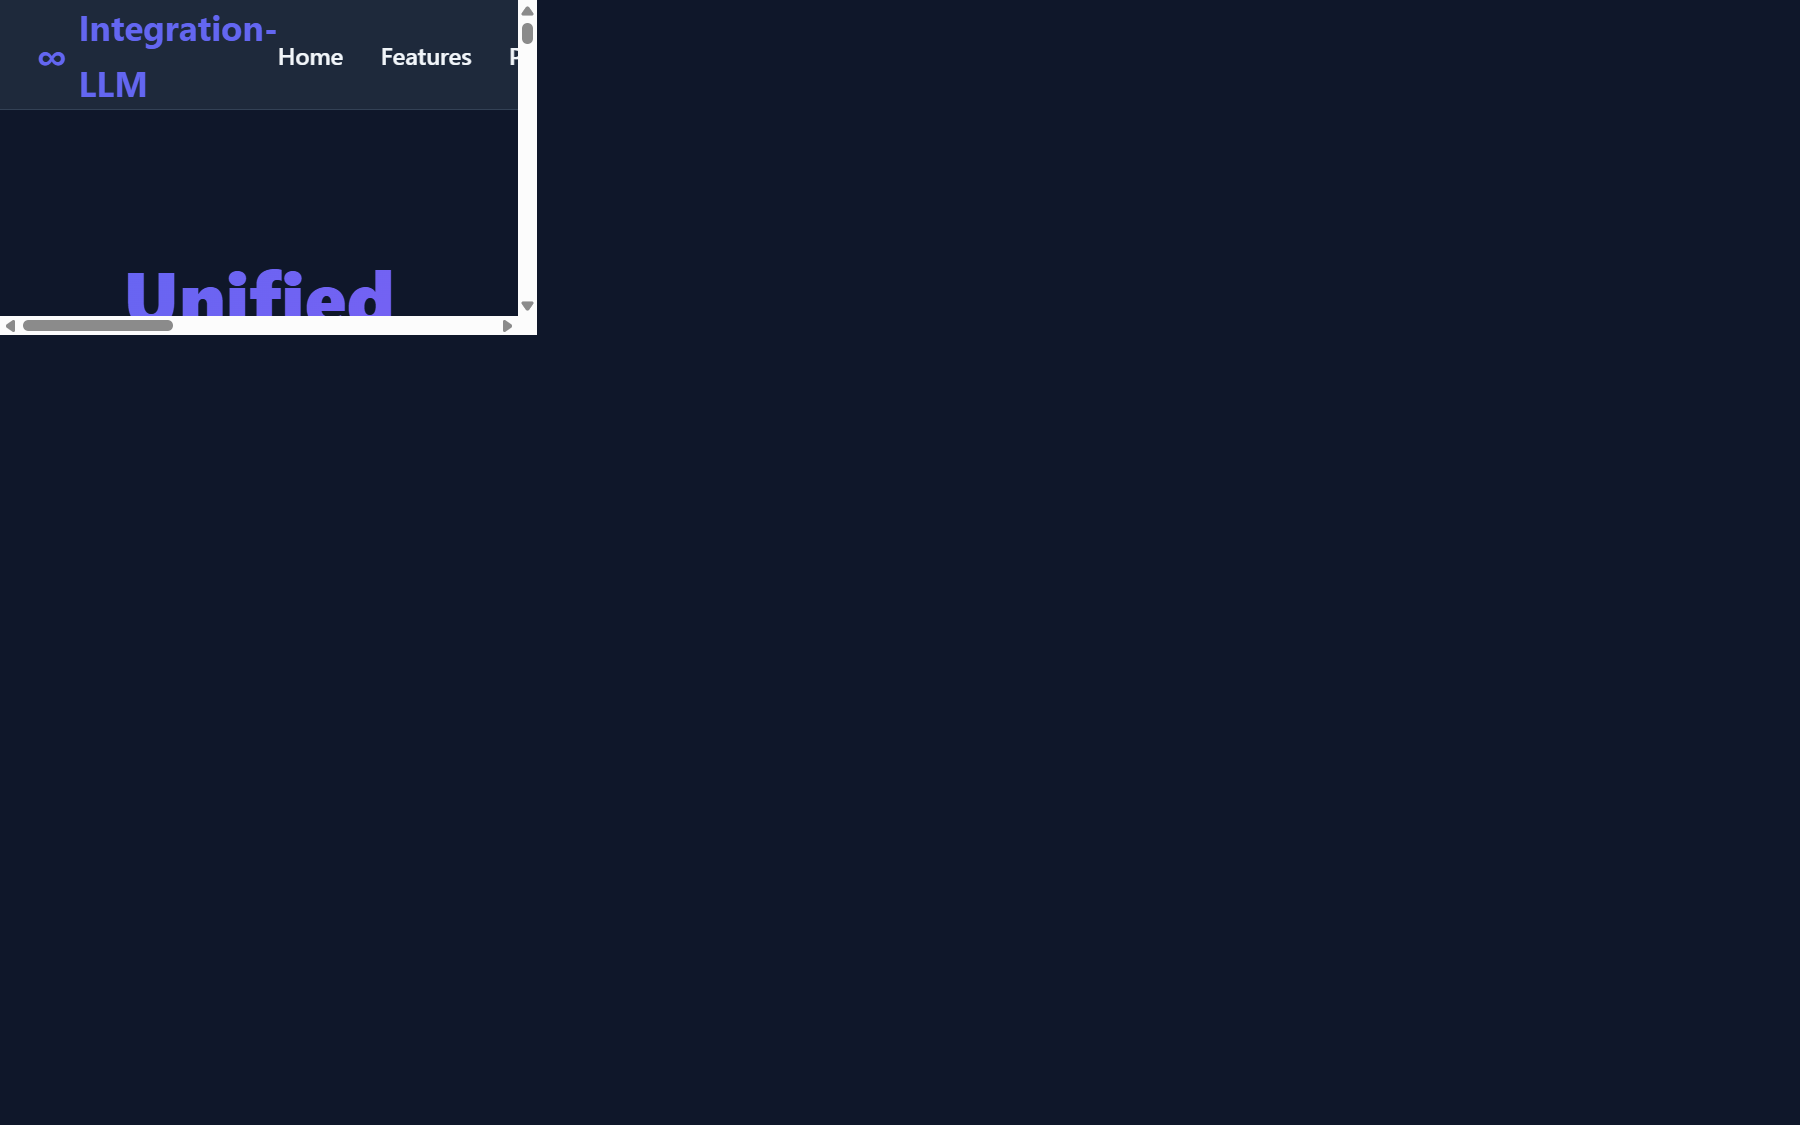
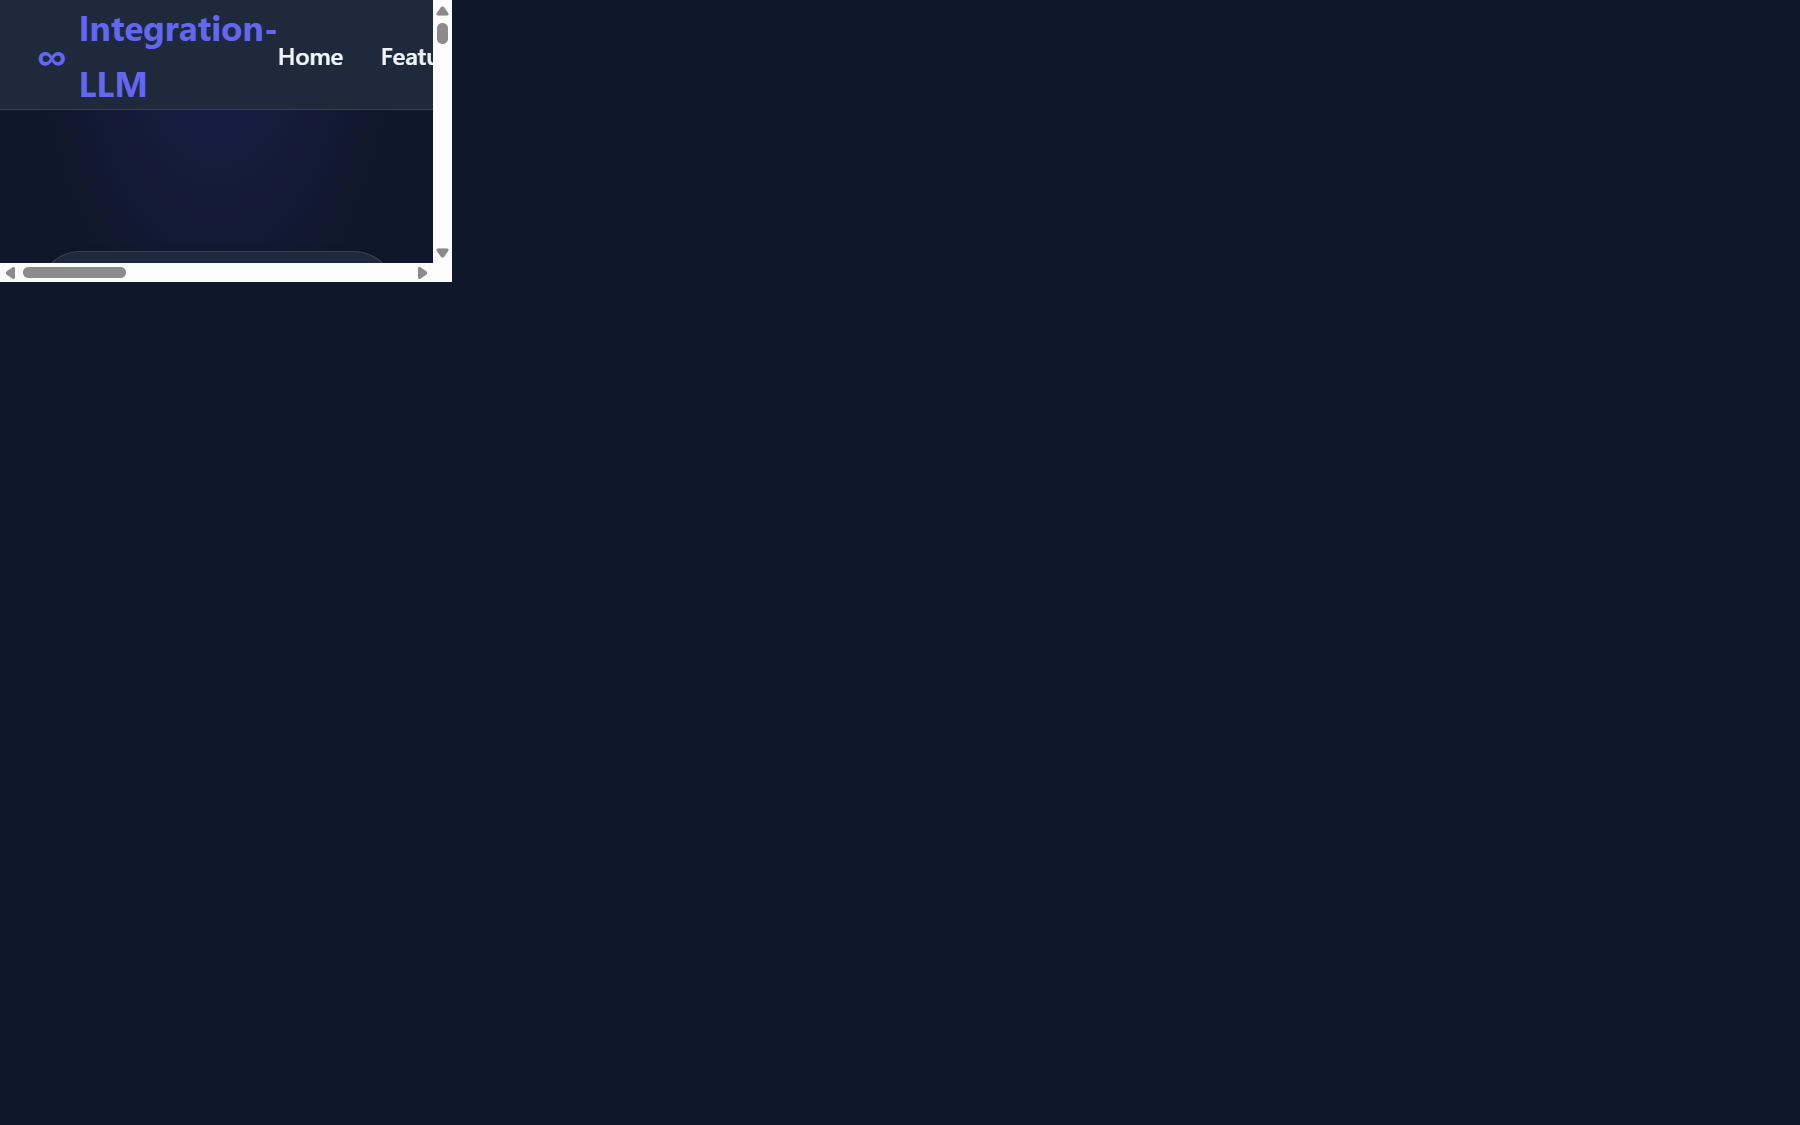
feat: revamp hero with live auto-playing terminal demo, animations, and refreshed screenshots

Changed region(s): [[0.0, 0.0, 0.3111, 0.3111]]

diff --git a/docs/styles.css b/docs/styles.css
@@ -119,6 +119,11 @@ body {
   border: none;
   font-size: 0.95rem;
   gap: 8px;
+  transition: transform 0.2s ease, box-shadow 0.2s ease, background-color 0.2s ease;
+}
+
+.btn:hover {
+  transform: translateY(-2px);
 }
 
 .btn-primary {
@@ -128,6 +133,7 @@ body {
 
 .btn-primary:hover {
   background-color: var(--primary-hover);
+  box-shadow: 0 10px 20px -6px rgba(79, 70, 229, 0.5);
 }
 
 .btn-secondary {
@@ -147,31 +153,175 @@ body {
 
 /* Hero */
 .hero {
-  padding: 80px 0;
-  text-align: center;
+  position: relative;
+  padding: 90px 0 70px;
+  overflow: hidden;
+}
+
+.hero-bg-glow {
+  position: absolute;
+  inset: -20% -10% auto -10%;
+  height: 600px;
+  background: radial-gradient(closest-side, rgba(79, 70, 229, 0.18), transparent 70%),
+              radial-gradient(closest-side at 80% 20%, rgba(124, 58, 237, 0.16), transparent 70%);
+  pointer-events: none;
+  z-index: 0;
+}
+
+.hero-grid {
+  position: relative;
+  z-index: 1;
+  display: grid;
+  grid-template-columns: 1.05fr 0.95fr;
+  gap: 48px;
+  align-items: center;
+}
+
+@media (max-width: 950px) {
+  .hero-grid {
+    grid-template-columns: 1fr;
+  }
+}
+
+.eyebrow {
+  display: inline-block;
+  background: var(--card-bg);
+  border: 1px solid var(--border);
+  color: var(--primary);
+  font-size: 0.8rem;
+  font-weight: 700;
+  padding: 6px 14px;
+  border-radius: 999px;
+  margin-bottom: 20px;
+  box-shadow: var(--shadow);
 }
 
 .hero h1 {
-  font-size: 3rem;
+  font-size: 2.9rem;
   font-weight: 800;
-  margin-bottom: 16px;
+  margin-bottom: 18px;
+  line-height: 1.15;
+}
+
+.text-gradient {
   background: linear-gradient(135deg, var(--primary), var(--secondary));
   -webkit-background-clip: text;
   -webkit-text-fill-color: transparent;
+  background-clip: text;
 }
 
 .hero p {
-  font-size: 1.25rem;
+  font-size: 1.15rem;
   color: var(--text-muted);
-  max-width: 700px;
-  margin: 0 auto 32px auto;
+  max-width: 560px;
+  margin-bottom: 28px;
+}
+
+.hero-stats {
+  display: flex;
+  gap: 32px;
+  margin-bottom: 32px;
+  flex-wrap: wrap;
+}
+
+.hero-stat {
+  display: flex;
+  flex-direction: column;
+}
+
+.hero-stat strong {
+  font-size: 1.6rem;
+  font-weight: 800;
+  color: var(--primary);
+}
+
+.hero-stat span {
+  font-size: 0.82rem;
+  color: var(--text-muted);
+  font-weight: 600;
+  text-transform: uppercase;
+  letter-spacing: 0.03em;
 }
 
 .hero-buttons {
   display: flex;
-  justify-content: center;
+  justify-content: flex-start;
   gap: 16px;
   flex-wrap: wrap;
+}
+
+@media (max-width: 950px) {
+  .hero p { max-width: 100%; }
+  .hero-stats, .hero-buttons { justify-content: center; }
+  .hero-copy { text-align: center; }
+}
+
+/* Hero live terminal */
+.terminal-window {
+  background: var(--code-bg);
+  border-radius: var(--radius);
+  box-shadow: 0 20px 40px -12px rgba(15, 23, 42, 0.35);
+  overflow: hidden;
+  border: 1px solid rgba(255,255,255,0.06);
+}
+
+.terminal-header {
+  display: flex;
+  align-items: center;
+  gap: 8px;
+  padding: 12px 16px;
+  background: rgba(255,255,255,0.04);
+  border-bottom: 1px solid rgba(255,255,255,0.06);
+}
+
+.dot {
+  width: 11px;
+  height: 11px;
+  border-radius: 50%;
+  display: inline-block;
+}
+
+.dot-red { background: #FF5F56; }
+.dot-yellow { background: #FFBD2E; }
+.dot-green { background: #27C93F; }
+
+.terminal-title {
+  margin-left: 8px;
+  font-size: 0.78rem;
+  color: var(--code-text);
+  opacity: 0.7;
+  font-family: monospace;
+}
+
+.terminal-body {
+  padding: 20px;
+  min-height: 320px;
+  color: var(--code-text);
+  font-family: 'Fira Code', 'Courier New', monospace;
+  font-size: 0.85rem;
+  line-height: 1.7;
+  white-space: pre-wrap;
+  word-break: break-word;
+}
+
+.terminal-body .line-comment { color: #6B7280; }
+.terminal-body .line-keyword { color: #C792EA; }
+.terminal-body .line-string { color: #C3E88D; }
+.terminal-body .line-success { color: #27C93F; font-weight: 600; }
+.terminal-body .line-label { color: #82AAFF; }
+
+.blinking-cursor {
+  display: inline-block;
+  width: 8px;
+  height: 1em;
+  background: var(--primary);
+  vertical-align: text-bottom;
+  animation: blink 1s step-start infinite;
+  margin-left: 2px;
+}
+
+@keyframes blink {
+  50% { opacity: 0; }
 }
 
 /* Features */
@@ -198,6 +348,13 @@ body {
   border-radius: var(--radius);
   border: 1px solid var(--border);
   box-shadow: var(--shadow);
+  transition: transform 0.25s ease, box-shadow 0.25s ease, border-color 0.25s ease;
+}
+
+.feature-card:hover {
+  transform: translateY(-4px);
+  border-color: var(--primary);
+  box-shadow: 0 12px 24px -8px rgba(79, 70, 229, 0.25);
 }
 
 .feature-icon {

diff --git a/docs/script.js b/docs/script.js
@@ -246,4 +246,70 @@ console.log('Resilient Response:', response.content);`;
 
   // Initial call
   populateModels();
+
+  // --- Hero Live Terminal Animation (auto-plays, cycles providers) ---
+  const heroTerminal = document.getElementById('heroTerminal');
+  if (heroTerminal) {
+    const demoSequence = [
+      { platform: 'ollama', model: 'llama3.2' },
+      { platform: 'azure', model: 'gpt-4o' },
+      { platform: 'openai', model: 'gpt-4o-mini' },
+      { platform: 'anthropic', model: 'claude-3-5-sonnet' },
+      { platform: 'bedrock', model: 'llama3.2' },
+      { platform: 'google', model: 'gemini-pro' }
+    ];
+
+    let seqIndex = 0;
+
+    function escapeHtml(str) {
+      return str.replace(/&/g, '&amp;').replace(/</g, '&lt;').replace(/>/g, '&gt;');
+    }
+
+    function buildScript(platform, model) {
+      const responseText = (mockResponses[platform] && mockResponses[platform][model])
+        || `Standard completion response for ${platform} (${model}).`;
+
+      return [
+        { text: `import { ChatService, registerDefaultFactories } from 'integration-llm';\n\n`, cls: '' },
+        { text: `registerDefaultFactories();\n`, cls: 'line-keyword' },
+        { text: `const chatService = new ChatService();\n\n`, cls: '' },
+        { text: `chatService.configure({ platform: '${platform}', model: '${model}' });\n\n`, cls: 'line-string' },
+        { text: `const res = await chatService.send('Explain the Adapter pattern.');\n`, cls: '' },
+        { text: `> `, cls: 'line-label' },
+        { text: `${responseText}\n`, cls: 'line-success' }
+      ];
+    }
+
+    async function typeSequence(entries) {
+      heroTerminal.innerHTML = '';
+      for (const entry of entries) {
+        const span = document.createElement('span');
+        if (entry.cls) span.className = entry.cls;
+        heroTerminal.appendChild(span);
+
+        for (let i = 0; i < entry.text.length; i++) {
+          span.textContent += entry.text[i];
+          // eslint-disable-next-line no-await-in-loop
+          await new Promise((resolve) => setTimeout(resolve, 8));
+        }
+      }
+      const cursor = document.createElement('span');
+      cursor.className = 'blinking-cursor';
+      heroTerminal.appendChild(cursor);
+    }
+
+    async function runDemoLoop() {
+      // eslint-disable-next-line no-constant-condition
+      while (true) {
+        const { platform, model } = demoSequence[seqIndex % demoSequence.length];
+        // eslint-disable-next-line no-await-in-loop
+        await typeSequence(buildScript(platform, model));
+        // eslint-disable-next-line no-await-in-loop
+        await new Promise((resolve) => setTimeout(resolve, 2600));
+        seqIndex += 1;
+      }
+    }
+
+    runDemoLoop();
+  }
 });

diff --git a/docs/index.html b/docs/index.html
@@ -28,13 +28,31 @@
 
     <!-- Hero Section -->
     <section id="home" class="hero">
-        <div class="container">
-            <h1>Unified Multi-Provider LLM Integration</h1>
-            <p>A high-performance TypeScript framework for seamless, provider-agnostic LLM integration supporting Azure OpenAI, AWS Bedrock, Google Vertex AI, Ollama, OpenAI, and Anthropic Claude.</p>
-            <div class="hero-buttons">
-                <a href="#demo" class="btn btn-primary">⚡ Try Interactive Playground</a>
-                <a href="docs.html" class="btn btn-secondary">📖 API Documentation</a>
-                <a href="https://github.com/Charan-Hari/Integration-LLM" target="_blank" class="btn btn-outline">⭐ GitHub Repository</a>
+        <div class="hero-bg-glow"></div>
+        <div class="container hero-grid">
+            <div class="hero-copy">
+                <span class="eyebrow">✨ v1.1 — now with OpenAI &amp; Anthropic Claude</span>
+                <h1>One API. <span class="text-gradient">Every LLM Provider.</span></h1>
+                <p>A high-performance TypeScript framework for seamless, provider-agnostic LLM integration supporting Azure OpenAI, AWS Bedrock, Google Vertex AI, Ollama, OpenAI, and Anthropic Claude.</p>
+                <div class="hero-stats">
+                    <div class="hero-stat"><strong>6</strong><span>Providers</span></div>
+                    <div class="hero-stat"><strong>5</strong><span>Design Patterns</span></div>
+                    <div class="hero-stat"><strong>100%</strong><span>Type-Safe</span></div>
+                </div>
+                <div class="hero-buttons">
+                    <a href="#demo" class="btn btn-primary">⚡ Try Interactive Playground</a>
+                    <a href="docs.html" class="btn btn-secondary">📖 API Documentation</a>
+                    <a href="https://github.com/Charan-Hari/Integration-LLM" target="_blank" class="btn btn-outline">⭐ Star on GitHub</a>
+                </div>
+            </div>
+            <div class="hero-terminal">
+                <div class="terminal-window">
+                    <div class="terminal-header">
+                        <span class="dot dot-red"></span><span class="dot dot-yellow"></span><span class="dot dot-green"></span>
+                        <span class="terminal-title">integration-llm — live demo</span>
+                    </div>
+                    <pre id="heroTerminal" class="terminal-body"></pre>
+                </div>
             </div>
         </div>
     </section>
